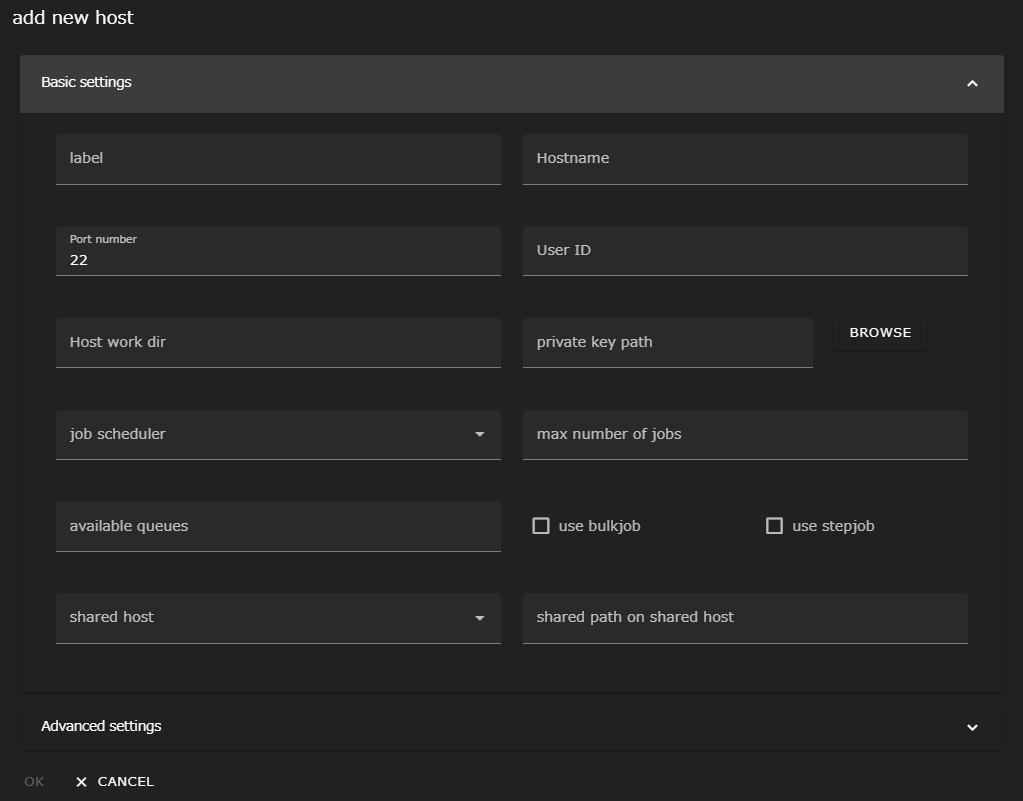
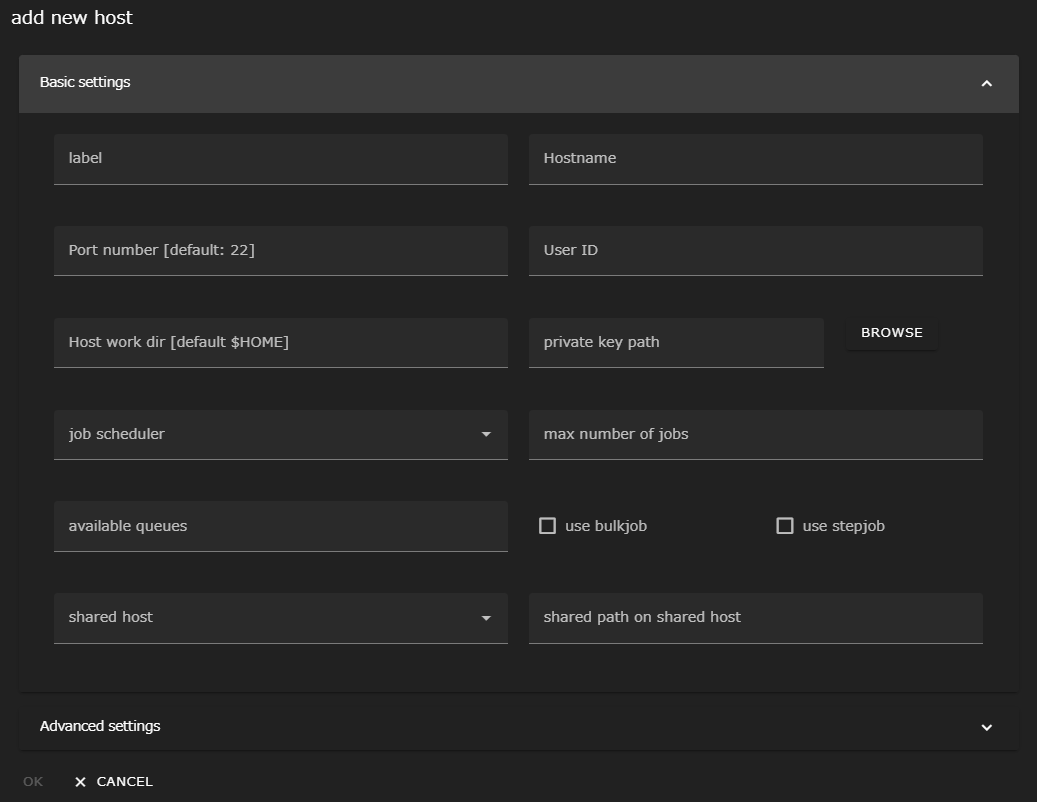
update images. No.15

diff --git a/documentMD/user_guide/_reference/2_remotehost_screen/index.en.md b/documentMD/user_guide/_reference/2_remotehost_screen/index.en.md
@@ -58,7 +58,7 @@ Click ▽ to the right of `Advanced settings` to open an advanced settings entry
 
 | Item | Setting |
 |----------|---------------------------------|
-| connection renewal interval(min.) | Idle time until ssh connection is disconnected [minutes] Do not disconnect when <br> 0 is set (default value 3) |
+| connection renewal interval(min.) | Idle time until ssh connection is disconnected [minutes] <br> Do not disconnect when 0 is set (default value 0) |
 | status check interval(sec.) | Interval for checking status after job submission [seconds] (default value 60) |
 | max number of status check error allowed | How many status check failures are allowed (default 10) |
 | interval time between each execution | Wait time (Default Value 5 for jobs, 1 for tasks) after one job execution before the next job is executed |
